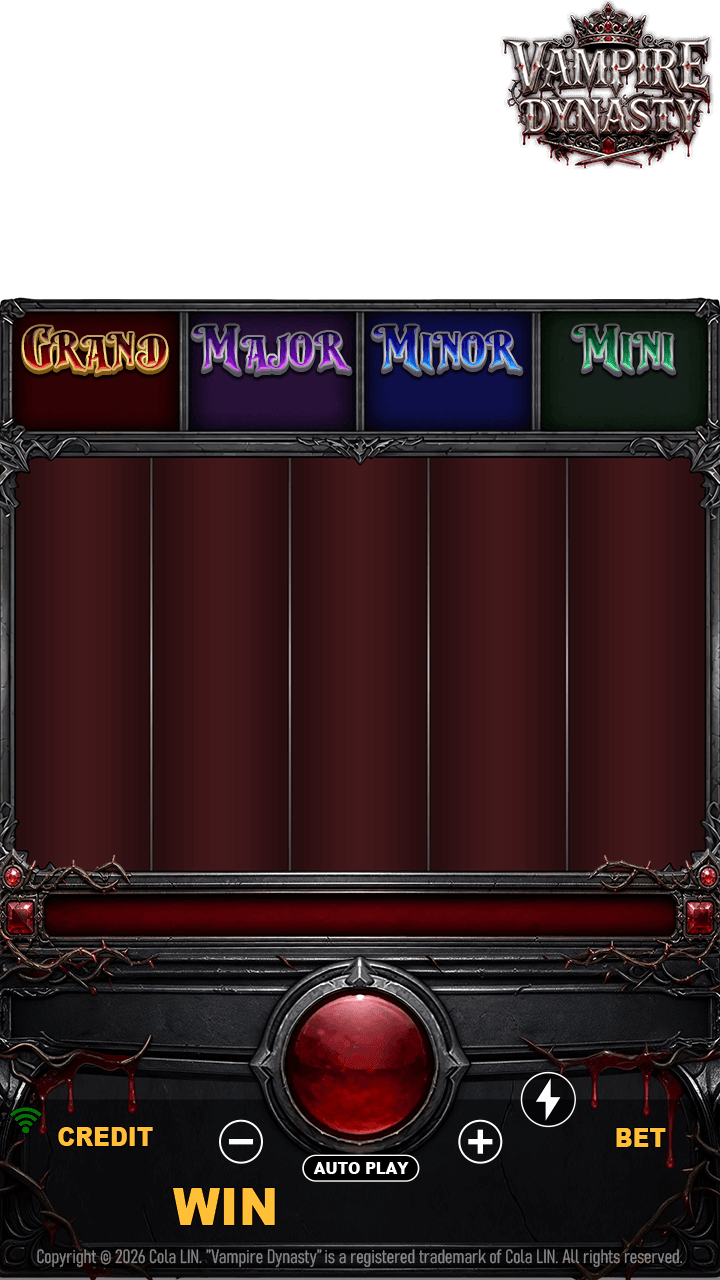
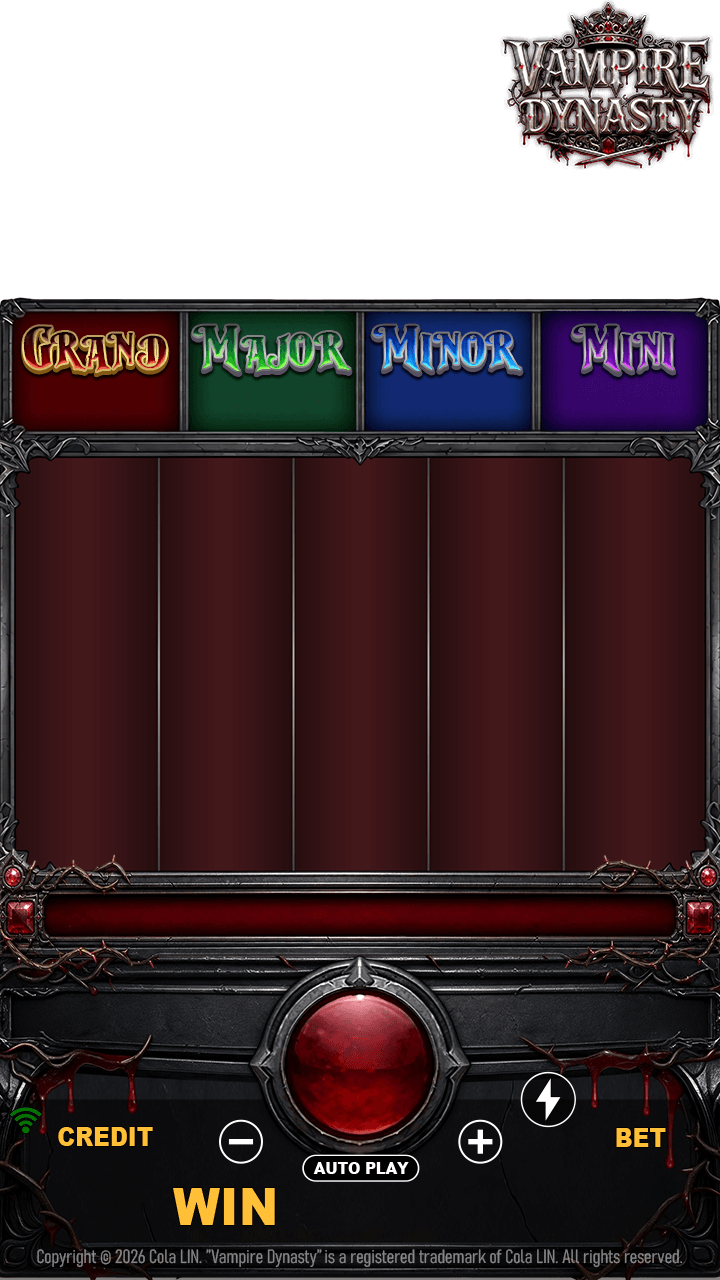
更新

Changed region(s): [[0.0306, 0.2188, 1.0, 0.6875], [0.7639, 0.375, 0.7944, 0.6875], [0.1833, 0.375, 0.2139, 0.6562]]

diff --git a/index.html b/index.html
@@ -150,7 +150,7 @@
         
         .grid-container { width: 93.3%; height: 100%; margin: 0 auto; display: flex; justify-content: space-between; 
         /* ★ 加上這行，正數往右，負數往左 */
-            transform: translateX(1px); 
+            transform: translateX(0px); 
         }
         
         
